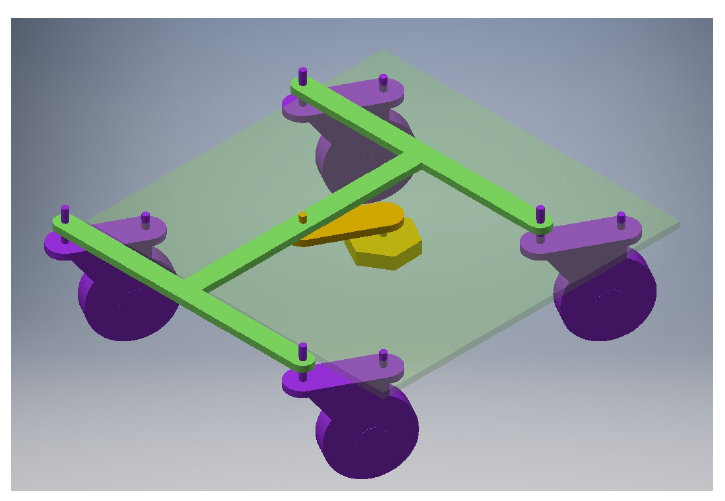
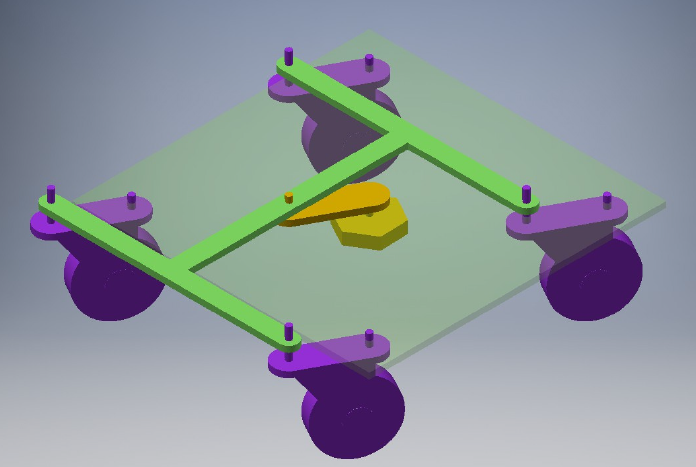
wind car

diff --git a/windCar.html b/windCar.html
@@ -44,25 +44,12 @@
                 <b>風扇設計</b>
             </p>
 
-            <h3>轉向系統</h3>
-            <p>本文基於阿克曼轉向機構作概念研發出四軸同動機構，此方法能有省去阿克曼轉向機構複雜的計算以及確保車子軸向一直平行於循跡線以利後續循跡任務。</p>
-            <img src="image/windcar/turn.png" class="img"/>
+            <h3>車體結構</h3>
+            <p>本專題基於阿克曼轉向機構作概念設計出四軸同動機構，此方法能有省去阿克曼轉向機構複雜的計算以及確保車子軸向一直平行於循跡線以利後續循跡任務。
+                同時在風扇後方加上與轉向機構同動的舵片來引導風的流向。最後煞車系統利用釣魚線拉煞車皮使車輛能停止移動。</p>
+            <img src="image/windcar/body4.png" class="img"/>
             <p class="text_img">
-                <b>轉向系統</b>
-            </p>
-            
-            <h3>煞⾞系統</h3>
-            <p>煞車系統利用釣魚線統一拉扯煞車皮的結構最輪子做煞車的動作。</p>
-            <img src="image/windcar/brake.png" class="img"/>
-            <p class="text_img">
-                <b>煞⾞系統</b>
-            </p>
-
-            <h3>車體系統</h3>
-            <p>車體設計如附圖，為了增加風對於車輛平移的推力，在車輛的轉向系統上增加了一個舵片來引導風的流向</p>
-            <img src="image/windcar/body.png" class="img"/>
-            <p class="text_img">
-                <b>煞⾞系統</b>
+                <b>車體結構</b>
             </p>
 
             <h3>電路設計</h3>
